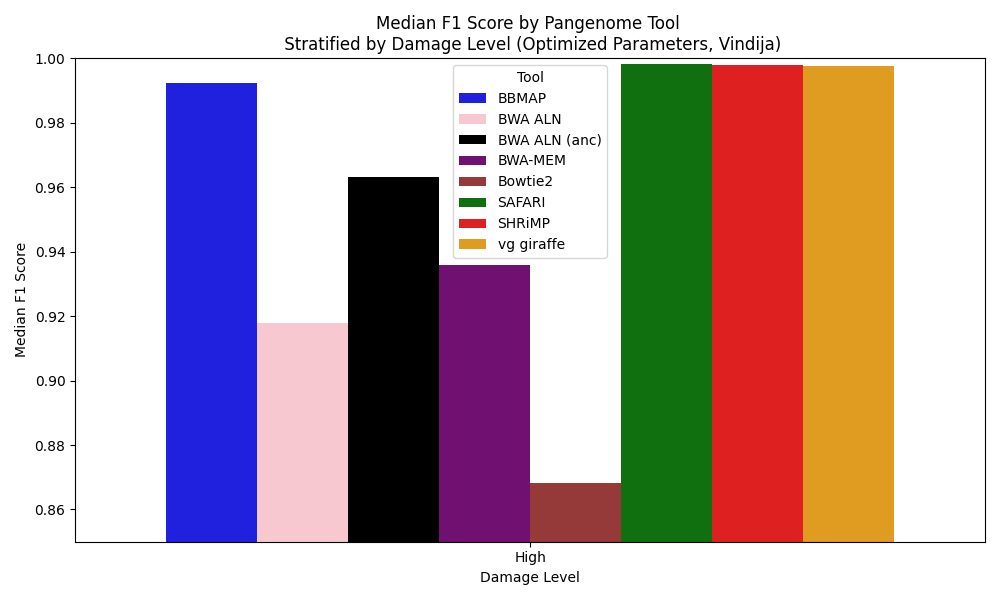
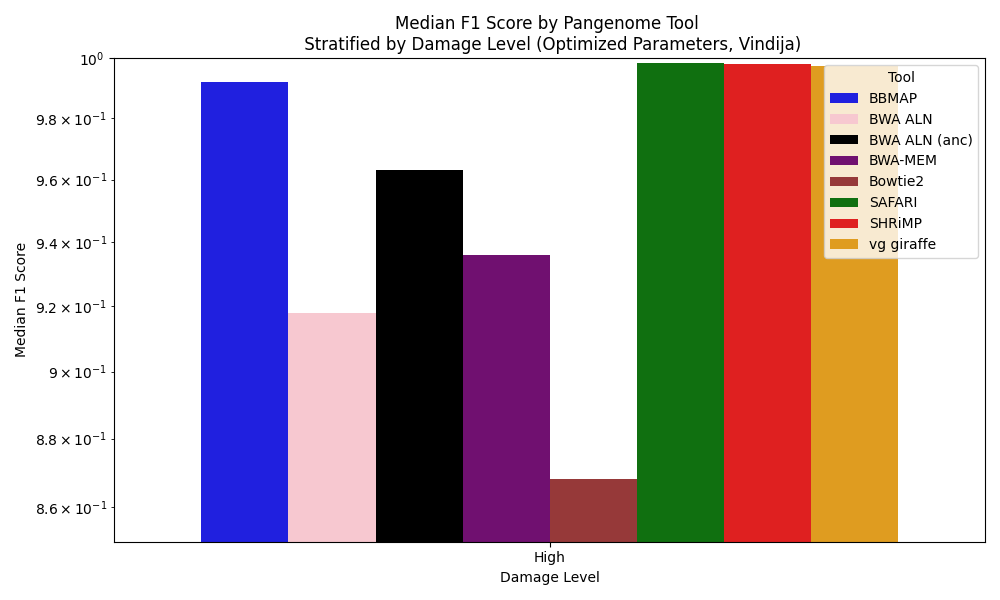
Update

diff --git a/linear_experiment/human_mito/stat_results/plot_F1_optimized_all.py b/linear_experiment/human_mito/stat_results/plot_F1_optimized_all.py
@@ -43,7 +43,8 @@ def main():
     plt.xlabel('Damage Level')
     plt.ylabel('Median F1 Score')
     plt.legend(title='Tool')
-    plt.ylim(0.85, 1)  # Restrict y-axis to start at 0.7
+    plt.yscale('log')  # Set the y-axis to a logarithmic scale
+    plt.ylim(0.85, 1)  # You might need to adjust this based on your log scale needs
     plt.tight_layout()
 
     plt.savefig(sys.argv[2])
